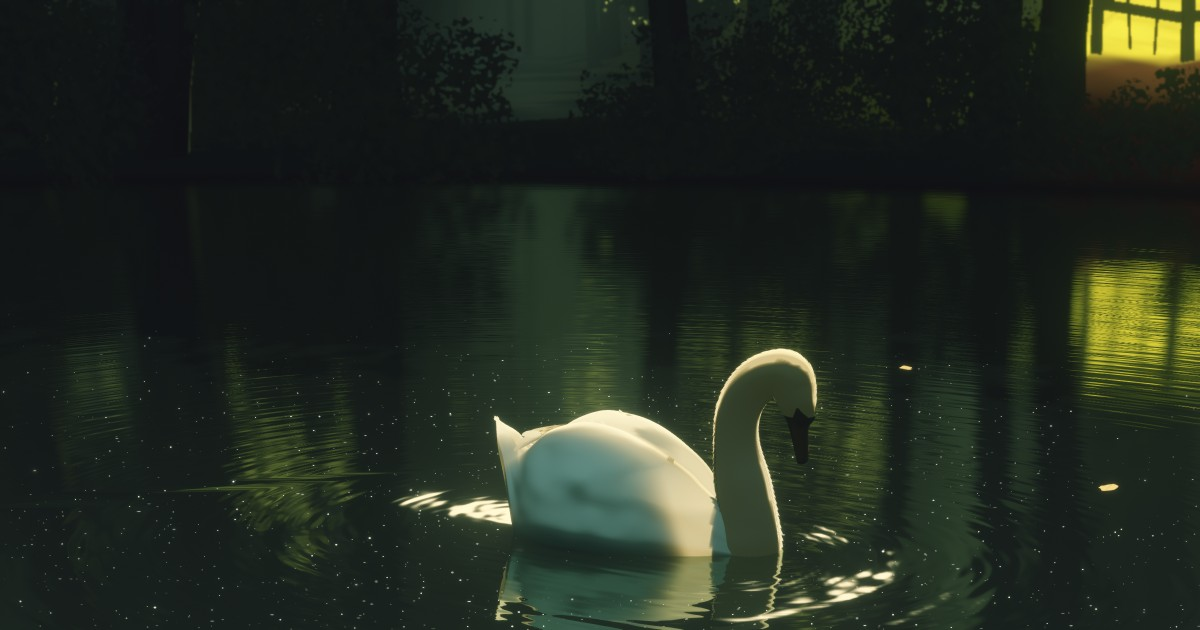
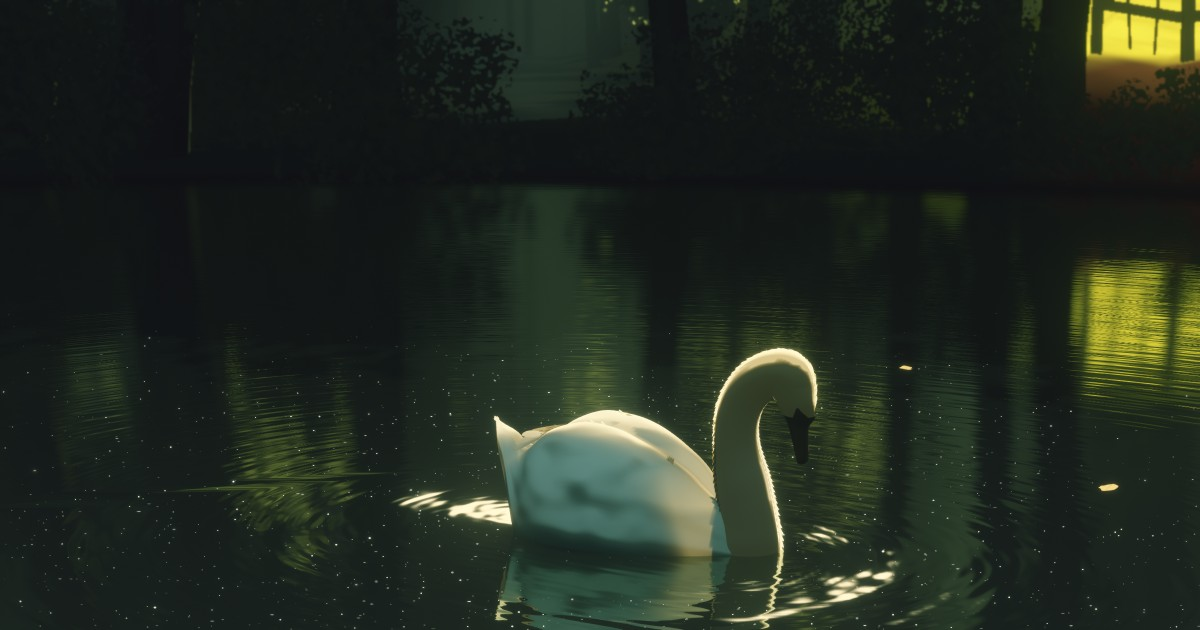
Backlit Swan: a brighter rim of down, deeper billows, a darker body as the wings relax
Measured against the film under the new lighting. The fringe of down along
the neck stands a third further off and throws 1.8 times the light (the
film's thin bright rim was the weakest match). The billows on the shadow
side shade more deeply. The plumage closes earlier as the wings come down,
which brings the body at 7.5 s to the film's level without changing 0.3 s.

136 checks pass against the build; pictures regenerated; docs say what was
and was not done.

Claude-Session: https://claude.ai/code/session_01Wk7hSpu2YyU21CPkBTvKup

diff --git a/02-backlit-swan/src/assets/swan/material.js b/02-backlit-swan/src/assets/swan/material.js
@@ -259,7 +259,7 @@ ${RINGS}
 in float aRing;
 in vec4 aFin;      // xy: the way the strip stands, in the ring's axes; z: 0 foot .. 1 top; w: random per strip
 in float aAlong;   // distance along the neck, in L
-uniform vec4 uFringe;  // height of the down on a straight run (m), how much taller on the outside of a bend; unused
+uniform vec4 uFringe;  // height of the down on a straight run (m), how much taller on the outside of a bend, how much brighter than skin (fragment stage); unused
 ${VARYINGS_OUT}
 out vec4 vFin;     // along (L), 0 foot .. 1 top, random, how far this side is stretched by the bend
 out vec3 vRadial;
@@ -321,6 +321,7 @@ in float vDepth;
 in vec4 vHead;
 in float vAlong;
 #ifdef FRINGE
+uniform vec4 uFringe;
 in vec4 vFin;
 in vec3 vRadial;
 #endif
@@ -425,8 +426,10 @@ void main() {
   profile = max(max(profile, barb), 0.16);
   float soft = max(fwidth(h) * 1.2, 0.02);
   alpha = side * (1.0 - smoothstep(profile - soft, profile + soft, h));
-  // the down thins toward its tips
-  col *= mix(1.0, 0.65, h);
+  // The down thins toward its tips. Loose down throws far more of the light
+  // on toward the eye than the close feathers under it do (uFringe.z): it is
+  // the bright line round the film's neck.
+  col *= mix(1.0, 0.65, h) * uFringe.z;
   if (alpha < 0.02) discard;
 #endif
 

diff --git a/02-backlit-swan/src/assets/swan/Swan.js b/02-backlit-swan/src/assets/swan/Swan.js
@@ -93,7 +93,7 @@ export function createSwan(ctx) {
     uRingBend: { value: solution.bends },
     uBody: { value: new THREE.Vector4(1, 0, 1, 0) },
     uTailSwing: { value: new THREE.Vector3(TAIL_PIVOT[1] * L, (U_ORIGIN - TAIL_PIVOT[0]) * L, 0) },
-    uFringe: { value: new THREE.Vector4(0.0036, 2.2, 0, 0) },
+    uFringe: { value: new THREE.Vector4(0.0048, 2.2, 1.8, 0) },
     uAbsorb: { value: new THREE.Vector3(20, 30, 48) },
     uFeather: { value: new THREE.Vector4(0.45, 0.35, 0.22, 0.2) },
     uSky: { value: new THREE.Vector4(0.1, 0.45, 1, 0) },
@@ -215,7 +215,7 @@ export function createSwan(ctx) {
     uniforms.uBillColor.value.fromArray(look.swanBill);
     uniforms.uSegDensity.value = look.swanNeckDensity;
     uniforms.uNeckSky.value.set(look.swanNeckSky, look.swanNeckThrough, look.swanNeckAround);
-    uniforms.uFringe.value.set(look.swanFringe, look.swanFringeBend, 0, 0);
+    uniforms.uFringe.value.set(look.swanFringe, look.swanFringeBend, look.swanFringeGlow, 0);
   }
 
   const swan = {

diff --git a/02-backlit-swan/src/assets/swan/body.js b/02-backlit-swan/src/assets/swan/body.js
@@ -4,7 +4,7 @@
 //
 // The soft billows of the folded wings are part of the mesh: the skin is
 // pushed in and out by a few millimetres of smooth noise, and its normals are
-// taken from a version pushed twice as far, so that the sky's light picks the
+// taken from a version pushed three and a half times as far, so that the sky's light picks the
 // upper edge of each billow out without the outline going lumpy.
 
 import * as THREE from 'three';
@@ -126,7 +126,7 @@ export function buildBody({ stations, detail, seed, rng, featherDetail }) {
         const amount = along * smooth(0.02, 0.12, y) * 0.0065 * L;
         for (let c = 0; c < 3; c++) {
           out[o + c] = smoothP[o + c] + normals[o + c] * b * amount;
-          bumped[o + c] = smoothP[o + c] + normals[o + c] * b * amount * 2.2;
+          bumped[o + c] = smoothP[o + c] + normals[o + c] * b * amount * 3.6;
         }
       }
     }

diff --git a/02-backlit-swan/src/scene/config.js b/02-backlit-swan/src/scene/config.js
@@ -107,8 +107,9 @@ export const LOOK = {
   swanSkyAtWater: 0.5, // share of the sky's light that reaches the skin at the waterline...
   swanSkyHeight: 0.2, // ...rising to all of it this many metres up
   swanSkyTilt: [0.05, 0.27, 1.0, 0.45], // share of it on surfaces facing down, facing the horizon, tilted up; the tilt (normal's y) that gets it all
-  swanFringe: 0.0036, // metres the down stands off the neck on a straight run (0.006 L)
+  swanFringe: 0.0048, // metres the down stands off the neck on a straight run (0.008 L)
   swanFringeBend: 2.2, // how much taller it stands on the outside of a tight bend
+  swanFringeGlow: 1.8, // how much more of the light loose down throws toward the eye than the feathers under it
   swanBill: [0.8, 0.24, 0.035], // orange; black parts are fixed
 };
 

diff --git a/02-backlit-swan/src/assets/swan/anatomy.js b/02-backlit-swan/src/assets/swan/anatomy.js
@@ -392,7 +392,9 @@ export function proxyShapes(lift) {
   // the end of the film the whole body is a dark shape with a lit outline).
   // The plumage is still loose with the wings half down (7.5 s: the front
   // third still glows) and closes over the last of the way.
-  const loose = mix(0.95, 0.33, smooth(0, 0.6, lift));
+  // (the plumage closes early as the wings come down: half-relaxed, as at
+  // 7.5 s of the film, the body is already much darker than with them arched)
+  const loose = mix(0.95, 0.33, smooth(0.25, 0.95, lift));
   const wing = mix(3.2, 1.6, lift);
   return [
     { centre: [0.633, 0.25, 0], radii: [0.6, top - 0.25, beam], tilt: 0, density: loose, plane: null },

diff --git a/02-backlit-swan/docs/swan.md b/02-backlit-swan/docs/swan.md
@@ -91,7 +91,8 @@ pose would put the bill tip and the head without posing the swan.
   long by tier, with both wing positions stored in every vertex so the vertex
   shader can slide between them. The soft billows of the folded wings are in
   the mesh: the skin is pushed in and out by a few millimetres of smooth
-  noise, and the normals are taken from a version pushed twice as far, so
+  noise, and the normals are taken from a version pushed three and a half
+  times as far, so
   that the sky's light picks out the upper edge of each billow without the
   outline going lumpy. The feather shapes are part of this mesh.
 - **Feathers** (`feathers.js`): small flat blades and two rounded lumps, in
@@ -140,5 +141,7 @@ facing the camera, 180 facing right. Add `&az= &el= &dist=` for the camera
   `proxyShapes`. Turn the sky off (`look.skyColor` to zero) to see the sun's
   part alone, or the transmission off (`look.swanThrough` and
   `look.swanNeckThrough` to zero) to see the rest.
-- **The fringe**: `look.swanFringe` (how far the down stands off, metres) and
-  `look.swanFringeBend`.
+- **The fringe**: `look.swanFringe` (how far the down stands off, metres),
+  `look.swanFringeBend` (how much taller on the outside of a bend) and
+  `look.swanFringeGlow` (how much more light it throws toward the eye than
+  the feathers under it).

diff --git a/02-backlit-swan/docs/ideas.md b/02-backlit-swan/docs/ideas.md
@@ -22,9 +22,15 @@ is done.
   for seams or holes, the mirrored far layer, the low and high tiers, and
   whether the shafts read well when the sun is turned far from where the
   film has it.
-- **A second pass on the swan against the new lighting** (its form at the
-  six moments, the wide soft edge of the warm region, the amber patch, the
-  thin rim along the neck) was planned and has not run.
+- **A fuller pass on the swan against the new lighting.** A short one was
+  done: the fringe of down along the neck stands a third further off and
+  throws 1.8 times the light (the film's thin rim was the weakest match),
+  the billows on the shadow side are deeper, and the plumage closes earlier
+  as the wings relax, which brings the body at 7.5 s to the film's level
+  (115, 141, 122 against 116, 132, 106 mid-body). Not done: the form checked
+  at all six moments, the wide soft edge of the warm region, the amber patch
+  under the wing tip, the neck at 7.5 s (still lighter and greener than the
+  film's 45, 48, 37), and the glow's skirt.
 
 3. **A side-by-side tool**: the film's frame beside the build's at the same
    moment, with the measured sRGB targets of [design.md](design.md) sampled
